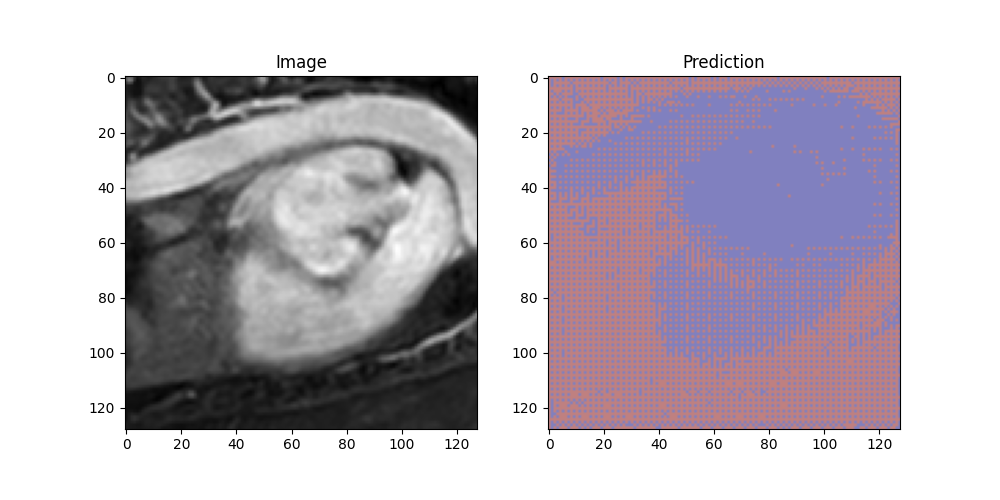
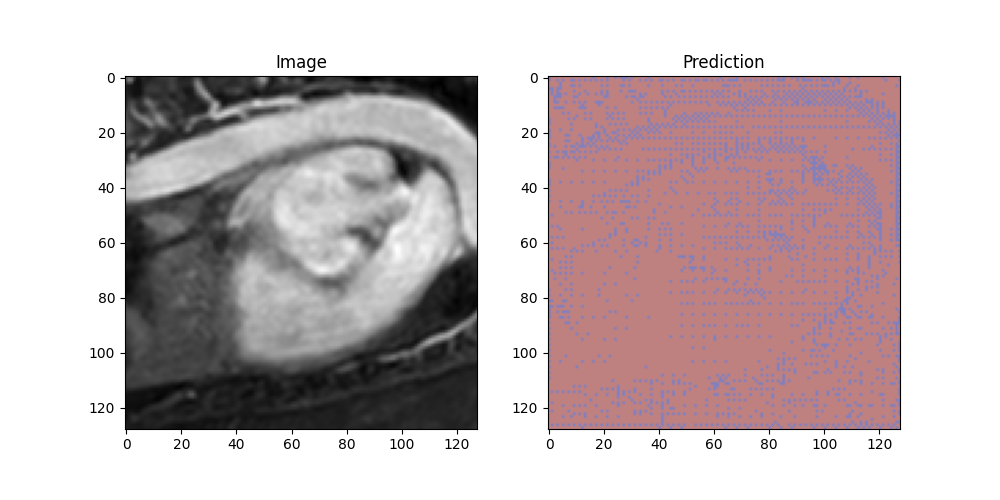
Add multiple models

Changed region(s): [[0.527, 0.15, 0.899, 0.87]]

diff --git a/scripts/model_loader.py b/scripts/model_loader.py
@@ -1,4 +1,4 @@
-from monai.networks.nets import UNet, UNETR, DynUNet
+from monai.networks.nets import UNet, UNETR, VNet
 import yaml
 
 def load_model_from_config(config_path):
@@ -39,20 +39,16 @@ def load_model_from_config(config_path):
             hidden_size=config['model'].get('hidden_size', 768),
             mlp_dim=config['model'].get('mlp_dim', 3072),
             num_heads=config['model'].get('num_heads', 12),
-            pos_embed=config['model'].get('pos_embed', 'perceptron'),
             norm_name=config['model'].get('norm_name', 'instance'),
             dropout_rate=config['model'].get('dropout_rate', 0.0),
         )
-    elif model_name == 'DynUNet':
-        return DynUNet(
+    elif model_name == 'VNet':
+        return VNet(
             spatial_dims=3,
             in_channels=in_channels,
             out_channels=out_channels,
-            kernel_size=config['model'].get('kernel_size', [[3, 3, 3], [3, 3, 3], [3, 3, 3], [3, 3, 3]]),
-            strides=strides or [[2, 2, 2], [2, 2, 2], [2, 2, 2]],
-            upsample_kernel_size=config['model'].get('upsample_kernel_size', [[2, 2, 2], [2, 2, 2], [2, 2, 2]]),
-            filters=features,
-            norm_name=config['model'].get('norm_name', 'instance'),
+            dropout_prob_up=config['model'].get('dropout_rate_up', [0.1,0.1]),
+            dropout_prob_down=config['model'].get('dropout_rate_down', 0.1)
         )
     else:
         raise ValueError(f"Model '{model_name}' is not supported by this loader.")
